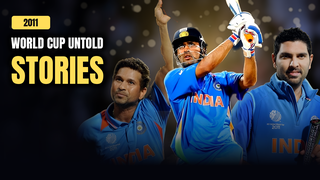
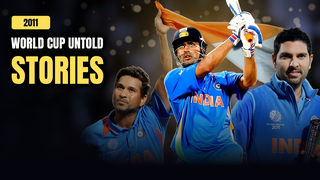
2011 thumbnail: Sachin's full hand gripping the tricolour, flag waving behind Dhoni and Yuvraj
Claude-Session: https://claude.ai/code/session_01SQh72PYSr2UGL5osbLDTTd

diff --git a/wc2011_thumb/thumb.py b/wc2011_thumb/thumb.py
@@ -26,7 +26,7 @@ def cut(name):
 
 
 def fix_cuts():
-    """Yuvraj's sleeve sponsor patch, and the scrap of flag beside Sachin's raised arm."""
+    """Yuvraj's sleeve sponsor patch; Sachin's raised arm, holding the tricolour."""
     y = cut("yuvraj")
     a = np.array(y)
     rgb = cv2.cvtColor(a[..., :3], cv2.COLOR_RGB2BGR)
@@ -42,9 +42,9 @@ def fix_cuts():
     mate = np.clip(((xx - 0.13 * w) / (0.05 * w)), 0, 1) + np.clip((0.80 * h - yy) / (0.04 * h), 0, 1)
     s[..., 3] = (s[..., 3] * np.clip(mate, 0, 1)).astype(np.uint8)  # teammate's head bottom-left
     s[..., 3] = (s[..., 3] * np.clip(xx / (0.16 * w), 0, 1) ** 0.8).astype(np.uint8)  # soft edge where the photo ended
-    # raised arm: the matte only half-kept it against the crowd, so rebuild it from skin colour; drop the flag
+    # raised arm: the matte only half-kept it against the crowd, so rebuild it from skin colour
     r, g, b = (s[..., c].astype(np.int32) for c in range(3))
-    skin = (r > 90) & (r > g + 8) & (g > b) & (r - b > 30) & ~((r - b > 120) & (r - g > 45))  # not the orange flag
+    skin = (r > 90) & (r > g + 8) & (g > b) & (r - b > 30)
     zone = (xx > 0.52 * w) & (xx < 0.72 * w) & (yy < 0.47 * h)
     arm = np.asarray(Image.fromarray((skin & zone).astype(np.uint8) * 255).filter(ImageFilter.MedianFilter(7))
                      .filter(ImageFilter.MaxFilter(3)).filter(ImageFilter.GaussianBlur(1.5)), np.int32)
@@ -56,10 +56,46 @@ def fix_cuts():
     poly = Image.new("L", (w, h), 0)
     ImageDraw.Draw(poly).polygon([(782, 862), (953, 818), (967, 1050), (953, 1146), (829, 1160), (724, 953)], fill=255)
     s[..., 3] = np.maximum(s[..., 3], np.asarray(poly.filter(ImageFilter.GaussianBlur(2)))).astype(np.uint8)
-    s[: int(0.13 * h), int(0.635 * w):, 3] = 0  # flag stick above the hand
-    top = Image.fromarray(s[: int(0.22 * h), :, 3]).filter(ImageFilter.MinFilter(9)).filter(ImageFilter.MaxFilter(9))
-    s[: int(0.22 * h), :, 3] = np.minimum(s[: int(0.22 * h), :, 3], np.asarray(top))  # thin stick lines gone
-    return Image.fromarray(a), Image.fromarray(s)
+    return Image.fromarray(a), with_flag(s)
+
+
+def with_flag(s):
+    """Widen Sachin's cutout to the right and add the tricolour he is gripping (cut out by its colours)."""
+    src = Image.open(os.path.join(HERE, "clean", "sachin.png")).convert("RGB")
+    e = Image.open(os.path.join(HERE, "up", "sachin.png")).convert("RGB")
+    k = e.width // src.width
+    o = src.resize(e.size, Image.LANCZOS)
+    full = Image.fromarray((np.asarray(e, np.float32) * 0.75 + np.asarray(o, np.float32) * 0.25).astype(np.uint8))
+    full = full.filter(ImageFilter.UnsharpMask(1.4, 35, 2)).crop((215 * k, 0, src.width * k, 470 * k))
+    f = np.asarray(full).astype(np.int32)
+    h, w = f.shape[:2]
+    r, g, b = f[..., 0], f[..., 1], f[..., 2]
+    mx, mn = f.max(2), f.min(2)
+    orange = (r > 160) & (r - b > 90) & (g > 60)
+    white = (mn > 170) & (mx - mn < 50)
+    green = (g > r + 15) & (g > b) & (g > 60)
+    yy, xx = np.mgrid[0:h, 0:w]
+    zone = (xx > 0.31 * w) & (yy < 0.60 * h)
+    m = ((orange | white | green) & zone).astype(np.uint8) * 255
+    m = cv2.morphologyEx(m, cv2.MORPH_CLOSE, np.ones((31, 31), np.uint8))  # fill the chakra and folds
+    m = cv2.morphologyEx(m, cv2.MORPH_OPEN, np.ones((15, 15), np.uint8))
+    n, lab, stats, _ = cv2.connectedComponentsWithStats(m)
+    if n > 1:
+        m = ((lab == 1 + np.argmax(stats[1:, cv2.CC_STAT_AREA])) * 255).astype(np.uint8)
+    m = cv2.morphologyEx(m, cv2.MORPH_CLOSE, np.ones((71, 71), np.uint8))
+    cs, _ = cv2.findContours(m, cv2.RETR_EXTERNAL, cv2.CHAIN_APPROX_NONE)
+    cv2.drawContours(m, cs, -1, 255, -1)  # no holes (chakra, folds)
+    m = cv2.GaussianBlur(m, (0, 0), 2)
+    m = (m * np.clip((w - xx) / (0.22 * w), 0, 1)).astype(np.uint8)  # photo ended here: fade, no hard edge
+    out = np.zeros((h, w, 4), np.uint8)
+    out[..., :3] = f
+    out[..., 3] = m
+    body = np.zeros_like(out)
+    body[:, : s.shape[1]] = s
+    al = body[..., 3:4].astype(np.float32) / 255
+    out[..., :3] = (body[..., :3] * al + out[..., :3] * (1 - al)).astype(np.uint8)
+    out[..., 3] = np.maximum(body[..., 3], out[..., 3])
+    return Image.fromarray(out)
 
 
 def background():
@@ -226,7 +262,8 @@ def build(line1, line2, name):
     look = lambda im, b=1.0: rim_light(grade(im, 1.08, 1.1, b), (255, 214, 140), 0.35)
 
     # back row at Dhoni's eye line, front: Dhoni's final six
-    put(bg, look(sac, 0.95), 880, -70, 1160, dim=0.84)
+    sw = 1120 * sac.width / sac.height
+    put(bg, look(sac, 0.95), 470 + sw / 2, -5, 1120, dim=0.84)
     put(bg, look(yuv, 0.95), 1705, 165, 830, dim=0.84)
     put(bg, look(six, 1.06), 1260, -150, 1880)
     floor(bg)
